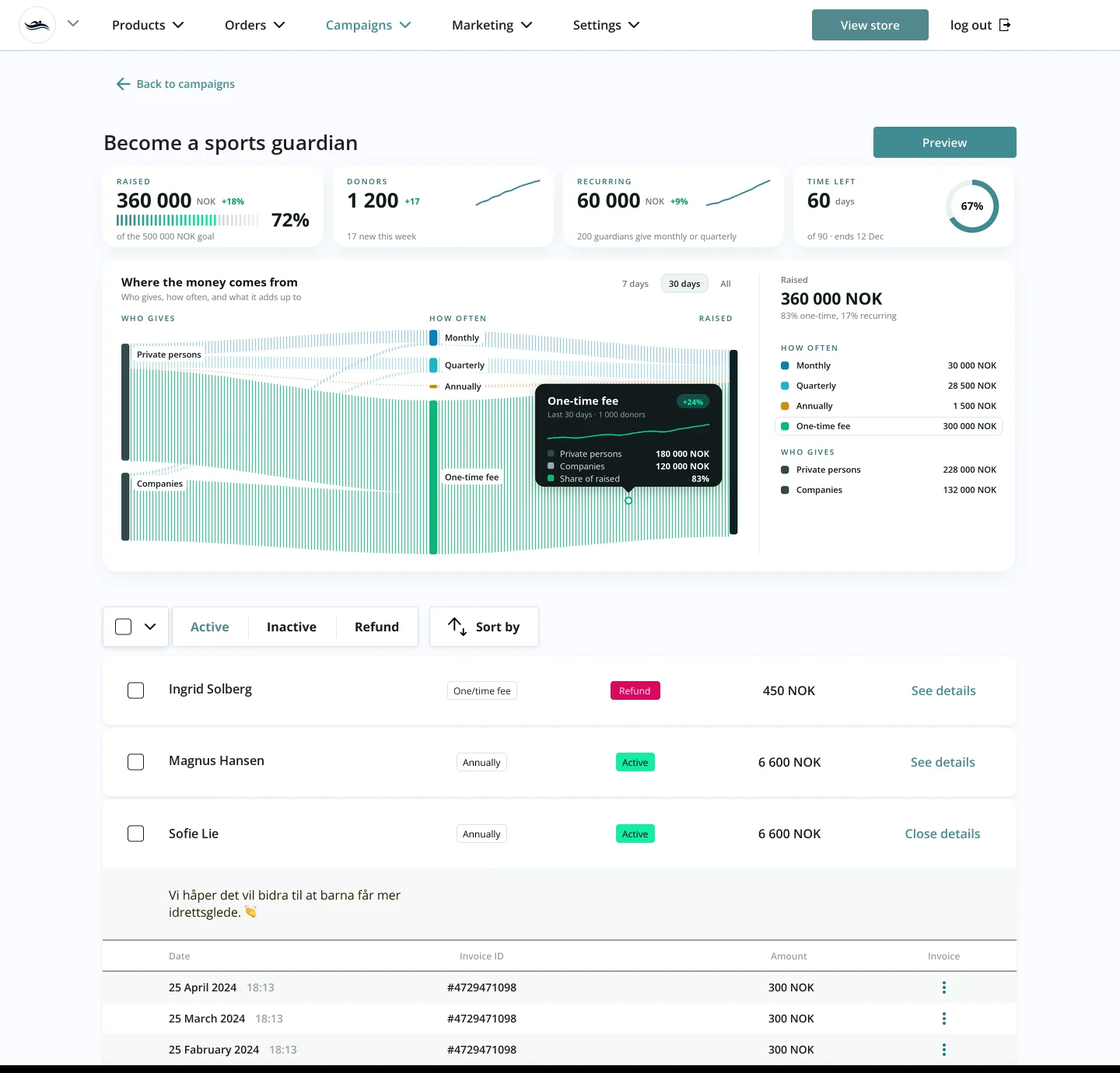
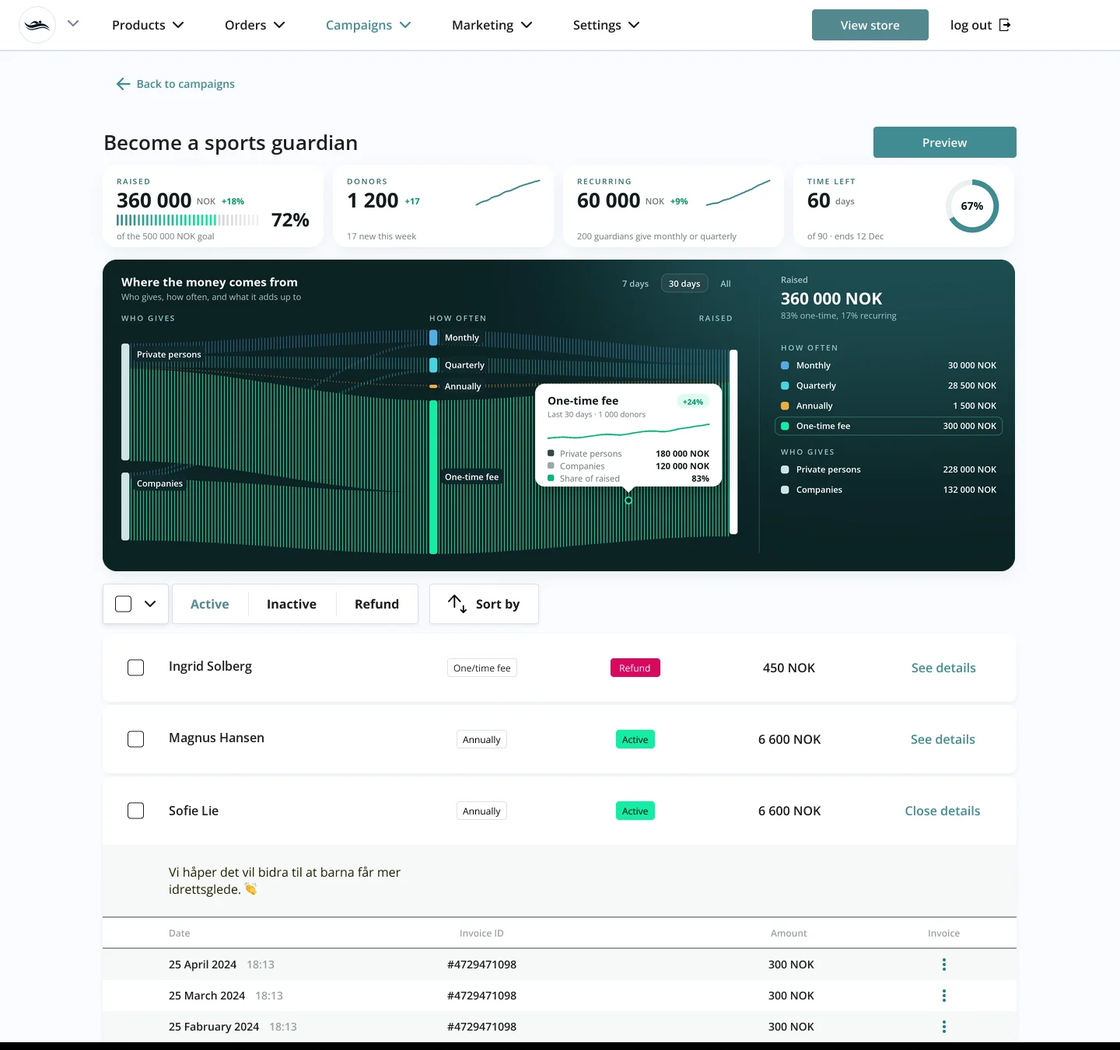
Sport Guardian admin: flow card on the page's deep teal ground, even 16 px gap above the donor filters

diff --git a/SportGuardian.html b/SportGuardian.html
@@ -308,7 +308,7 @@ footer .wrap{display:flex;justify-content:space-between;gap:16px;flex-wrap:wrap}
 
 <figure class="c5-12 rv" style="--d:.1s"><div class="panel"><img class="el c" src="assets/work/sport-guardian/el-create-donations.webp" alt="From the campaign builder: Accept donations from private persons and companies, and Select donation frequency, from monthly to a one-time fee, each with a short hint." width="1200" height="1183" loading="lazy"></div><figcaption>For the club: who can give and how often, with a hint under every choice.</figcaption></figure>
 
-<figure class="c1-12 rv"><div class="panel"><div class="browser" style="max-width:1000px"><div class="bar" aria-hidden="true"><i></i><i></i><i></i><span>admin.supporter.no</span></div><div class="vp fx" style="--hd:4.514%;aspect-ratio:auto"><img class="hd" src="assets/work/sport-guardian/screen-statistik-head.webp" alt="" width="1440" height="65" loading="lazy"><img src="assets/work/sport-guardian/screen-statistik-body.webp" alt="Campaign statistics in the admin panel: cards for raised with a segmented progress bar, donors, recurring and time left; under them the chart Where the money comes from, private persons 228 000 NOK and companies 132 000 NOK flowing through monthly 30 000, quarterly 28 500, annually 1 500 and one-time 300 000 NOK into 360 000 NOK raised, each frequency in its own colour, a tooltip over the one-time flow with its trend and split, and the amounts in a legend; then a list of donors with their status." width="1440" height="1315" loading="lazy"></div></div></div><figcaption style="max-width:64ch">The admin panel: what each frequency brings in, and every donor, with refunds and cancellations in one place.</figcaption></figure>
+<figure class="c1-12 rv"><div class="panel"><div class="browser" style="max-width:1000px"><div class="bar" aria-hidden="true"><i></i><i></i><i></i><span>admin.supporter.no</span></div><div class="vp fx" style="--hd:4.514%;aspect-ratio:auto"><img class="hd" src="assets/work/sport-guardian/screen-statistik-head.webp" alt="" width="1440" height="65" loading="lazy"><img src="assets/work/sport-guardian/screen-statistik-body.webp" alt="Campaign statistics in the admin panel: cards for raised with a segmented progress bar, donors, recurring and time left; under them the chart Where the money comes from, private persons 228 000 NOK and companies 132 000 NOK flowing through monthly 30 000, quarterly 28 500, annually 1 500 and one-time 300 000 NOK into 360 000 NOK raised, each frequency in its own colour, a tooltip over the one-time flow with its trend and split, and the amounts in a legend; then a list of donors with their status." width="1440" height="1286" loading="lazy"></div></div></div><figcaption style="max-width:64ch">The admin panel: what each frequency brings in, and every donor, with refunds and cancellations in one place.</figcaption></figure>
       <!-- flow:start -->
       <figure class="c1-12 rv flowfig"><div class="flowpanel"><div class="flowhead"><h3>Where the money comes from</h3><p>Who gives, how often, and what it adds up to, one campaign after 30 days.</p></div><div class="flowscroll" tabindex="0" aria-label="Where the money comes from, chart"><svg class="flowsvg" viewBox="0 0 1200 560" role="img" aria-labelledby="fl-t fl-d"><title id="fl-t">Where the money comes from</title><desc id="fl-d">Private persons give 228 000 NOK and companies 132 000 NOK. By frequency: monthly 30 000, quarterly 28 500, annually 1 500 and one-time 300 000 NOK, together 360 000 NOK raised. The same numbers are in the table below.</desc><defs><pattern id="hatch" width="6" height="8" patternUnits="userSpaceOnUse"><rect x="0" width="1.3" height="8" fill="#fff" fill-opacity=".55"/></pattern><pattern id="hatch-hi" width="6" height="8" patternUnits="userSpaceOnUse"><rect x="0" width="1.6" height="8" fill="#15EDA3"/></pattern></defs><line x1="218.0" y1="96" x2="218.0" y2="538" stroke="#fff" stroke-opacity=".08"/><line x1="598.0" y1="96" x2="598.0" y2="538" stroke="#fff" stroke-opacity=".08"/><line x1="968.0" y1="96" x2="968.0" y2="538" stroke="#fff" stroke-opacity=".08"/><text class="col" x="210" y="80">Who gives</text><text class="col" x="590" y="80">How often</text><text class="col" x="960" y="80">Raised</text><path class="fl" data-f="Monthly" data-s="Private persons" data-v="24 000 NOK" d="M226.0,129.0 C408.0,129.0 408.0,118.7 590.0,118.7 L590.0,140.1 C408.0,140.1 408.0,150.5 226.0,150.5 Z" fill="url(#hatch)"/><path class="fl" data-f="Monthly" data-s="Companies" data-v="6 000 NOK" d="M226.0,392.9 C408.0,392.9 408.0,140.1 590.0,140.1 L590.0,145.5 C408.0,145.5 408.0,398.3 226.0,398.3 Z" fill="url(#hatch)"/><path class="fl" data-f="Quarterly" data-s="Private persons" data-v="22 500 NOK" d="M226.0,150.5 C408.0,150.5 408.0,171.5 590.0,171.5 L590.0,191.6 C408.0,191.6 408.0,170.6 226.0,170.6 Z" fill="url(#hatch)"/><path class="fl" data-f="Quarterly" data-s="Companies" data-v="6 000 NOK" d="M226.0,398.3 C408.0,398.3 408.0,191.6 590.0,191.6 L590.0,197.0 C408.0,197.0 408.0,403.7 226.0,403.7 Z" fill="url(#hatch)"/><path class="fl" data-f="Annually" data-s="Private persons" data-v="1 500 NOK" d="M226.0,170.6 C408.0,170.6 408.0,223.0 590.0,223.0 L590.0,225.0 C408.0,225.0 408.0,172.6 226.0,172.6 Z" fill="url(#hatch)"/><path class="fl hi" data-f="One-time fee" data-s="Private persons" data-v="180 000 NOK" d="M226.0,172.6 C408.0,172.6 408.0,253.0 590.0,253.0 L590.0,414.0 C408.0,414.0 408.0,333.6 226.0,333.6 Z" fill="url(#hatch-hi)"/><path class="fl hi" data-f="One-time fee" data-s="Companies" data-v="120 000 NOK" d="M226.0,403.7 C408.0,403.7 408.0,414.0 590.0,414.0 L590.0,521.3 C408.0,521.3 408.0,511.0 226.0,511.0 Z" fill="url(#hatch-hi)"/><path class="fl" data-f="Monthly" data-s="Raised" data-v="30 000 NOK" d="M606.0,118.7 C783.0,118.7 783.0,159.0 960.0,159.0 L960.0,185.8 C783.0,185.8 783.0,145.5 606.0,145.5 Z" fill="url(#hatch)"/><path class="fl" data-f="Quarterly" data-s="Raised" data-v="28 500 NOK" d="M606.0,171.5 C783.0,171.5 783.0,185.8 960.0,185.8 L960.0,211.3 C783.0,211.3 783.0,197.0 606.0,197.0 Z" fill="url(#hatch)"/><path class="fl" data-f="Annually" data-s="Raised" data-v="1 500 NOK" d="M606.0,223.0 C783.0,223.0 783.0,211.3 960.0,211.3 L960.0,215.3 C783.0,215.3 783.0,227.0 606.0,227.0 Z" fill="url(#hatch)"/><path class="fl hi" data-f="One-time fee" data-s="Raised" data-v="300 000 NOK" d="M606.0,253.0 C783.0,253.0 783.0,215.3 960.0,215.3 L960.0,483.7 C783.0,483.7 783.0,521.3 606.0,521.3 Z" fill="url(#hatch-hi)"/><g class="nd" data-s="Private persons"><rect x="210" y="129.0" width="16" height="203.9" rx="3" fill="#CFE3E4"/><text class="nm" x="192" y="225.0" text-anchor="end">Private persons</text><text class="vl" x="192" y="247.0" text-anchor="end">228 000 NOK</text></g><g class="nd" data-s="Companies"><rect x="210" y="392.9" width="16" height="118.1" rx="3" fill="#CFE3E4"/><text class="nm" x="192" y="446.0" text-anchor="end">Companies</text><text class="vl" x="192" y="468.0" text-anchor="end">132 000 NOK</text></g><g class="nd" data-f="Monthly"><rect x="590" y="118.7" width="16" height="26.8" rx="3" fill="#CFE3E4"/><text class="nm" x="622" y="137.1">Monthly <tspan class="vl">30 000 NOK</tspan></text></g><g class="nd" data-f="Quarterly"><rect x="590" y="171.5" width="16" height="25.5" rx="3" fill="#CFE3E4"/><text class="nm" x="622" y="189.2">Quarterly <tspan class="vl">28 500 NOK</tspan></text></g><g class="nd" data-f="Annually"><rect x="590" y="223.0" width="16" height="4.0" rx="3" fill="#CFE3E4"/><text class="nm" x="622" y="230.0">Annually <tspan class="vl">1 500 NOK</tspan></text></g><g class="nd" data-f="One-time fee"><rect x="590" y="253.0" width="16" height="268.3" rx="3" fill="#15EDA3"/><text class="nm g" x="622" y="392.2">One-time fee <tspan class="vl">300 000 NOK</tspan></text></g><rect x="960" y="159.0" width="16" height="322.0" rx="3" fill="#fff"/><text class="big" x="998" y="326.0">360 000</text><text class="vl" x="1000" y="356.0">NOK raised · 83% one-time</text></svg><div class="fltip" aria-hidden="true"></div></div><table class="vh"><caption>Where the money comes from, in NOK</caption><thead><tr><th scope="col">Who gives</th><th scope="col">Monthly</th><th scope="col">Quarterly</th><th scope="col">Annually</th><th scope="col">One-time fee</th><th scope="col">Total</th></tr></thead><tbody><tr><th scope="row">Private persons</th><td>24 000 NOK</td><td>22 500 NOK</td><td>1 500 NOK</td><td>180 000 NOK</td><td>228 000 NOK</td></tr><tr><th scope="row">Companies</th><td>6 000 NOK</td><td>6 000 NOK</td><td>0 NOK</td><td>120 000 NOK</td><td>132 000 NOK</td></tr><tr><th scope="row">Total</th><td>30 000 NOK</td><td>28 500 NOK</td><td>1 500 NOK</td><td>300 000 NOK</td><td>360 000 NOK</td></tr></tbody></table></div><figcaption>Every krone traced from the donor to the total: most of it comes as one-time gifts, and companies give over a third.</figcaption></figure>
       <!-- flow:end -->

diff --git a/tools/sport-guardian/sankey.py b/tools/sport-guardian/sankey.py
@@ -80,17 +80,24 @@ def dashboard_sankey(im, H_BLOCK=470, chart=True):
     # the flow card (2026-10-13, her requests: the "Where the money comes from" chart on the dashboard too; then
     # "more refined, each flow its own colour", no wide label column on the left, and a tooltip like her node-network
     # reference: the screen shows the chart as if the pointer rests on One-time fee, with a dark tooltip card)
+    # Then (her request): the card takes the ground of the page's own flow chart, a deep teal with a soft glow at the
+    # top right, and the donor filters start 16 px under it, the same gap as between the cards and this card.
     from PIL import ImageChops
-    s = S; y1 = y0+h0+16; w1 = 1305-x0; h1 = H_BLOCK-(y1-207)-12
-    c = card(x0, y1, w1, h1); d = ImageDraw.Draw(c)
-    d.text((24*s, 18*s), 'Where the money comes from', font=FONT('Bold', 15*s), fill=INKD)
-    d.text((24*s, 40*s), 'Who gives, how often, and what it adds up to', font=FONT('Regular', 11*s), fill=MUT)
+    s = S; y1 = y0+h0+16; w1 = 1305-x0; h1 = H_BLOCK-(y1-207)+17
+    c = card(x0, y1, w1, h1)
+    g = Image.new('RGB', c.size, (11, 34, 36)); gl = Image.new('L', c.size, 0)
+    ImageDraw.Draw(gl).ellipse((int(c.width*.55), -c.height//2, int(c.width*1.15), c.height//2), fill=255)
+    g = Image.composite(Image.new('RGB', c.size, (29, 76, 80)), g, gl.filter(ImageFilter.GaussianBlur(90*s)))
+    c = Image.composite(g.convert('RGBA'), c, c.split()[3]); d = ImageDraw.Draw(c)
+    WK, WM, WL = (255, 255, 255), (167, 196, 198), (150, 196, 198)  # light text on the dark ground
+    d.text((24*s, 18*s), 'Where the money comes from', font=FONT('Bold', 15*s), fill=WK)
+    d.text((24*s, 40*s), 'Who gives, how often, and what it adds up to', font=FONT('Regular', 11*s), fill=WM)
     # period switch, top right of the chart area
     pf = FONT('SemiBold', 11*s); px = 668*s
     for k, t in enumerate(['7 days', '30 days', 'All']):
         tw = d.textlength(t, font=pf); on = k == 1
-        if on: d.rounded_rectangle((px-10*s, 18*s, px+tw+10*s, 42*s), 8*s, fill=(238, 244, 245), outline=(214, 226, 228), width=s)
-        d.text((px, 23*s), t, font=pf, fill=INKD if on else MUT); px += tw+26*s
+        if on: d.rounded_rectangle((px-10*s, 18*s, px+tw+10*s, 42*s), 8*s, fill=(36, 70, 74), outline=(62, 100, 104), width=s)
+        d.text((px, 23*s), t, font=pf, fill=WK if on else WM); px += tw+26*s
     ct, cb, gapn = 92*s, (h1-24)*s, 16*s
     total = sum(FLOWS.values()); kk = ((cb-ct)-gapn*3)/total
     hgt = lambda v: max(v*kk, 4*s)
@@ -102,7 +109,8 @@ def dashboard_sankey(im, H_BLOCK=470, chart=True):
         return pos
     srcs = ['Private persons', 'Companies']; sv = [sum(v for (a, b), v in FLOWS.items() if a == n) for n in srcs]
     fr = [n for n, _ in FREQ]; fv = [sum(v for (a, b), v in FLOWS.items() if b == n) for n in fr]
-    col = dict(FREQ); FOCUS = 'One-time fee'
+    # the same four hues, lighter for the dark ground; One-time fee in the brand green
+    col = {'Monthly': (84, 172, 226), 'Quarterly': (72, 210, 222), 'Annually': (240, 172, 64), 'One-time fee': GREEN}; FOCUS = 'One-time fee'
     xL, xM, xR, nw = 24*s, 420*s, 806*s, 10*s
     P = stack(srcs, sv); M = stack(fr, fv)
     ry = ct+((cb-ct)-total*kk)/2; R = [ry, ry+total*kk, ry]
@@ -121,17 +129,17 @@ def dashboard_sankey(im, H_BLOCK=470, chart=True):
     stripes = Image.new('L', c.size, 0); sd = ImageDraw.Draw(stripes)
     for x in range(0, c.width, 4*s): sd.rectangle((x, 0, x+s-1, c.height), fill=255)
     for f in fr:
-        a = ImageChops.multiply(masks[f], stripes).point(lambda v, k=(235 if f == FOCUS else 120): v*k//255)
+        a = ImageChops.multiply(masks[f], stripes).point(lambda v, k=(235 if f == FOCUS else 120): v*k//255)  # (full for the hovered flow)
         lay = Image.new('RGBA', c.size, col[f]+(0,)); lay.putalpha(a); c = Image.alpha_composite(c, lay)
     d = ImageDraw.Draw(c)
     hf = FONT('SemiBold', 10*s)
     for x, t in ((xL, 'WHO GIVES'), (xM, 'HOW OFTEN')):
-        _tracked(d, (x, 68*s), t, hf, LAB, 1.6*s)
-    rt = 'RAISED'; _tracked(d, (xR+nw-(len(rt)*8.2)*s, 68*s), rt, hf, LAB, 1.6*s)
-    lf = FONT('SemiBold', 11*s); NODE = (52, 72, 76)
+        _tracked(d, (x, 68*s), t, hf, WL, 1.6*s)
+    rt = 'RAISED'; _tracked(d, (xR+nw-(len(rt)*8.2)*s, 68*s), rt, hf, WL, 1.6*s)
+    lf = FONT('SemiBold', 11*s); NODE = (207, 227, 228); PL = (15, 40, 43)
 
-    def plate(x, y, t, fill=INKD):  # a small white plate so a label reads over the lines
-        tw = d.textlength(t, font=lf); d.rounded_rectangle((x-5*s, y-3*s, x+tw+5*s, y+17*s), 5*s, fill=(255, 255, 255))
+    def plate(x, y, t, fill=WK):  # a small dark plate so a label reads over the lines
+        tw = d.textlength(t, font=lf); d.rounded_rectangle((x-5*s, y-3*s, x+tw+5*s, y+17*s), 5*s, fill=PL)
         d.text((x, y), t, font=lf, fill=fill)
     for n in srcs:
         a, b = P[n][0], P[n][1]; d.rounded_rectangle((xL, a, xL+nw, b), 3*s, fill=NODE)
@@ -140,49 +148,49 @@ def dashboard_sankey(im, H_BLOCK=470, chart=True):
         a, b = M[n][0], max(M[n][1], M[n][0]+4*s); ym = (a+b)/2
         d.rounded_rectangle((xM, a, xM+nw, b), 3*s, fill=col[n])
         plate(xM+nw+10*s, ym-8*s, n)
-    d.rounded_rectangle((xR, R[0], xR+nw, R[1]), 3*s, fill=(14, 34, 37))
+    d.rounded_rectangle((xR, R[0], xR+nw, R[1]), 3*s, fill=(255, 255, 255))
 
     # the tooltip, as if the pointer rests on the One-time fee flow
     a, b = M[FOCUS][0], M[FOCUS][1]; ptx, pty = 676*s, (a+b)/2+30*s
-    d.ellipse((ptx-5*s, pty-5*s, ptx+5*s, pty+5*s), fill=(255, 255, 255), outline=col[FOCUS], width=2*s)
+    d.ellipse((ptx-5*s, pty-5*s, ptx+5*s, pty+5*s), fill=(11, 34, 36), outline=col[FOCUS], width=2*s)
     tx, ty, tw_, th = 556*s, pty-150*s, 240*s, 132*s
     sh = Image.new('L', c.size, 0); ImageDraw.Draw(sh).rounded_rectangle((tx, ty+6*s, tx+tw_, ty+th+6*s), 12*s, fill=70)
-    shl = Image.new('RGBA', c.size, (10, 25, 28, 0)); shl.putalpha(sh.filter(ImageFilter.GaussianBlur(10*s))); c = Image.alpha_composite(c, shl)
-    d = ImageDraw.Draw(c); TT = (17, 27, 29); TM = (150, 168, 171)
+    shl = Image.new('RGBA', c.size, (0, 10, 12, 0)); shl.putalpha(sh.filter(ImageFilter.GaussianBlur(10*s))); c = Image.alpha_composite(c, shl)
+    d = ImageDraw.Draw(c); TT = (255, 255, 255); TM = (106, 119, 124); TI = (20, 30, 32)
     d.rounded_rectangle((tx, ty, tx+tw_, ty+th), 12*s, fill=TT)
     d.polygon([(ptx-8*s, ty+th), (ptx+8*s, ty+th), (ptx, ty+th+8*s)], fill=TT)
-    d.text((tx+16*s, ty+12*s), 'One-time fee', font=FONT('Bold', 14*s), fill=(255, 255, 255))
+    d.text((tx+16*s, ty+12*s), 'One-time fee', font=FONT('Bold', 14*s), fill=TI)
     d.text((tx+16*s, ty+32*s), 'Last 30 days · 1 000 donors', font=FONT('Regular', 10*s), fill=TM)
     ch = '+24%'; cf = FONT('Bold', 10*s); cw = d.textlength(ch, font=cf)
-    d.rounded_rectangle((tx+tw_-16*s-cw-16*s, ty+13*s, tx+tw_-16*s, ty+31*s), 9*s, fill=(17, 77, 70))
-    d.text((tx+tw_-16*s-cw-8*s, ty+16*s), ch, font=cf, fill=GREEN)
-    _spark(d, (tx+16*s, ty+52*s, tx+tw_-16*s, ty+70*s), [5, 7, 6, 9, 12, 11, 15, 18, 17, 22, 26, 30], col[FOCUS], None, 2*s)
+    d.rounded_rectangle((tx+tw_-16*s-cw-16*s, ty+13*s, tx+tw_-16*s, ty+31*s), 9*s, fill=(221, 251, 240))
+    d.text((tx+tw_-16*s-cw-8*s, ty+16*s), ch, font=cf, fill=(8, 150, 100))
+    _spark(d, (tx+16*s, ty+52*s, tx+tw_-16*s, ty+70*s), [5, 7, 6, 9, 12, 11, 15, 18, 17, 22, 26, 30], (13, 181, 122), None, 2*s)
     rf, vf2 = FONT('Regular', 11*s), FONT('Bold', 11*s)
-    for k, (dot, t, v) in enumerate([(NODE, 'Private persons', '180 000 NOK'), ((150, 170, 174), 'Companies', '120 000 NOK'), (col[FOCUS], 'Share of raised', '83%')]):
+    for k, (dot, t, v) in enumerate([((52, 72, 76), 'Private persons', '180 000 NOK'), ((150, 170, 174), 'Companies', '120 000 NOK'), ((13, 181, 122), 'Share of raised', '83%')]):
         yy = ty+82*s+k*16*s
         d.rounded_rectangle((tx+16*s, yy+3*s, tx+24*s, yy+11*s), 2*s, fill=dot)
-        d.text((tx+32*s, yy), t, font=rf, fill=(220, 230, 231))
-        d.text((tx+tw_-16*s-d.textlength(v, font=vf2), yy), v, font=vf2, fill=(255, 255, 255))
+        d.text((tx+32*s, yy), t, font=rf, fill=TM)
+        d.text((tx+tw_-16*s-d.textlength(v, font=vf2), yy), v, font=vf2, fill=TI)
 
     # the legend on the right: every amount next to a marker in its flow's colour
     lx, rx = 872*s, (w1-24)*s
-    d.line((lx-28*s, 18*s, lx-28*s, cb), fill=(232, 238, 240), width=s)
+    d.line((lx-28*s, 18*s, lx-28*s, cb), fill=(40, 74, 78), width=s)
     y = 18*s
-    d.text((lx, y), 'Raised', font=lf, fill=MUT)
-    d.text((lx, y+17*s), '360 000 NOK', font=FONT('Bold', 21*s), fill=INKD)
-    d.text((lx, y+46*s), '83% one-time, 17% recurring', font=FONT('Regular', 11*s), fill=MUT)
+    d.text((lx, y), 'Raised', font=lf, fill=WM)
+    d.text((lx, y+17*s), '360 000 NOK', font=FONT('Bold', 21*s), fill=WK)
+    d.text((lx, y+46*s), '83% one-time, 17% recurring', font=FONT('Regular', 11*s), fill=WM)
     vf = FONT('SemiBold', 11*s)
     y += 80*s
     rows = [('HOW OFTEN', None, None)] + [(n, v, col[n]) for n, v in zip(fr, fv)] \
          + [('WHO GIVES', None, None)] + [(n, v, NODE) for n, v in zip(srcs, sv)]
     for n, v, mc in rows:
         if v is None:
-            y += 8*s; _tracked(d, (lx, y), n, hf, LAB, 1.6*s); y += 22*s; continue
+            y += 8*s; _tracked(d, (lx, y), n, hf, WL, 1.6*s); y += 22*s; continue
         yc = y+8*s
         d.rounded_rectangle((lx, yc-5*s, lx+10*s, yc+5*s), 3*s, fill=mc)
-        if n == FOCUS: d.rounded_rectangle((lx-8*s, yc-12*s, rx+8*s, yc+12*s), 7*s, outline=(214, 236, 226), width=s)
-        d.text((lx+20*s, yc-8*s), n, font=lf, fill=INKD)
-        t = f'{v:,}'.replace(',', ' ')+' NOK'; d.text((rx-d.textlength(t, font=vf), yc-8*s), t, font=vf, fill=INKD)
+        if n == FOCUS: d.rounded_rectangle((lx-8*s, yc-12*s, rx+8*s, yc+12*s), 7*s, outline=(46, 110, 92), width=s)
+        d.text((lx+20*s, yc-8*s), n, font=lf, fill=WK)
+        t = f'{v:,}'.replace(',', ' ')+' NOK'; d.text((rx-d.textlength(t, font=vf), yc-8*s), t, font=vf, fill=WK)
         y += 26*s
     put(c, x0, y1)
     return out

diff --git a/tools/sport-guardian/fix_screens.py b/tools/sport-guardian/fix_screens.py
@@ -37,7 +37,7 @@ for y, name in [(611, 'Ingrid Solberg'), (703, 'Magnus Hansen'), (795, 'Sofie Li
     d.rectangle((212, y-16, 525, y+16), fill=(255, 255, 255))
     b = d.textbbox((0, 0), name, font=SEMI); d.text((217-b[0], y-(b[3]-b[1])/2-b[1]), name, font=SEMI, fill=(30, 30, 30))
 retext(st, [((128, 165, 560, 207), 'Become a sports guardian', (133, 186))], 26)
-st = club_logo(dashboard_sankey(st, H_BLOCK=540))  # after the names: the new block pushes the donor list down
+st = club_logo(dashboard_sankey(st, H_BLOCK=511))  # after the names: the new block pushes the donor list down
 save(st, 'screen-statistik')
 save(st.crop((0, 0, 1440, 65)), 'screen-statistik-head'); save(st.crop((0, 65, 1440, st.height)), 'screen-statistik-body')
 

diff --git a/sportguardian.md b/sportguardian.md
@@ -40,7 +40,7 @@ Order (2026-10-13, her request, last change): header → the moving mosaic → A
    (the desktop page: a browser frame, scrolling slowly under its fixed header, on a pale panel)
    - (swapped, her request) on a pale panel (1–5) two phone-size screens, paying by card and paying with Vipps (`m-step-4.webp`, `m-vipps-2.webp`), larger, the card one higher on the left and the Vipps one lower on the right (her request), as tall as the phone panel; the phone on a teal panel (6–9) playing the flow; the caption on the right (10–12): **Card or Vipps.** Donors pay by card, or with Vipps, the mobile payment app used only in the Nordic countries: in Norway most people pay with it in one tap, and donors from anywhere else pay by card. The phone has no caption and no visible Pause button (her request); for WCAG 2.2.2 it stops while the pointer is over it, and a click, a tap or Enter / Space on it stops or starts it (screen readers hear how). The desktop page has no caption or Pause button either (her request); it stops the same way: hover, click, tap, Enter or Space. The card and Vipps screens are 41% of their panel wide with 7% at the sides, between the earlier small and large sizes, to sit with the phone next to them. Her card frame says "Pay 630 NOK"; it reads 603 NOK like the rest of the flow (`mobile_frames.py` also rewrites `card-credit-card.webp`, so run it after `export_assets.py`).
    - the donor list on a teal panel (1–4); the campaign builder's "Accept donations from / Select donation frequency" block on a pale panel (5–12): single elements, as she asked, since the full builder page is not its best side;
-   - the campaign statistics in the admin panel in a browser frame, scrolling under the fixed admin nav (1–12), shown whole, with no scroll (her request: the whole dashboard is visible). The five frequency cards are redrawn as modern dashboard cards ("like crypto dashboards, with charts"): label and donor count, the amount, a growth chip, a small area chart with a gradient; One-time fee is the highlighted dark card with a green chart; chart data is made up ([`tools/sport-guardian/stat_cards.py`](tools/sport-guardian/stat_cards.py)). The caption runs in two lines (64ch). Redrawn 2026-10-13 after her sales dashboard reference (inspiration 22): light rounded cards with soft shadows, small uppercase letter-spaced labels, big numbers with the change in green beside them, one line of context, a small sparkline, and a bar for each frequency's share of all money raised; One-time fee is the dark card with a bright green bar. Top row: RAISED 360 000 NOK, +18% this week, the bar to the 500 000 NOK goal and "200 donors · 17 new this week"; TIME LEFT 60 days with a ring, over the One-time fee card. Then (2026-10-13, her request: one row of cards and a modern chart under it) rebuilt again by `dashboard_sankey()` in [`tools/sport-guardian/sankey.py`](tools/sport-guardian/sankey.py): one row of four cards, RAISED 360 000 NOK +18% with the goal bar, DONORS 1 200 +17 with a sparkline, RECURRING 60 000 NOK +9% with a sparkline, TIME LEFT 60 days with a ring; under it a Sankey, "Where the money comes from": private persons (228 000 NOK) and companies (132 000 NOK) flow through Monthly, Quarterly, Annually and One-time fee into 360 000 NOK raised. The split between private persons and companies is made up; the totals match the cards. The four frequency colours (#0A7FB0, #22B3C4, #D08A1C, #0DB57A) passed the dataviz palette validator on the light surface (lightness, chroma, colour-blind and normal-vision separation); contrast is a warning, so every node has a text label. Later the same day (her request, references 23 and 24): the admin screen keeps only the row of four cards (`dashboard_sankey(..., chart=False)`, the screen 104 px taller than her frame); RAISED shows a segmented progress of 34 thin vertical bars, teal to green for the share raised, fading grey for the rest, with a large 72% beside it. Later again (2026-10-13, her request: "add this chart to the dashboard too", amounts as tooltips or a legend with markers): the chart is back under the row of cards (`dashboard_sankey(st, H_BLOCK=540)`, the body screen now 1440 × 1315), drawn like the page's own flow chart: fields of thin vertical lines, One-time fee in green, the other flows grey, column heads WHO GIVES, HOW OFTEN, RAISED; the nodes carry names only, each frequency name on a white plate so it reads over the lines. The amounts sit in a legend on the right with a marker for each flow (a legend rather than tooltips, because the screen is an image and a legend also works on touch and for keyboard users): Raised 360 000 NOK, 83% one-time, 17% recurring; How often: Monthly 30 000, Quarterly 28 500, Annually 1 500, One-time fee 300 000 NOK; Who gives: Private persons 228 000, Companies 132 000 NOK. Refined the same day (her request: "more refined, mark it in different colours", with her node-network reference: a dark tooltip card, room kept at the sides): finer lines (1 px every 4 px), each frequency in its own colour from the validated palette (Monthly #0A7FB0, Quarterly #22B3C4, Annually #D08A1C, One-time fee #0DB57A); the wide label column on the left is gone, the source nodes sit at the left edge with their names on small white plates beside them; a period switch (7 days, 30 days, All) top right. The screen shows the chart as if the pointer rests on One-time fee: that flow at full strength, the others quieter, and a dark tooltip card with "One-time fee", "Last 30 days · 1 000 donors", a +24% chip, a green sparkline, and Private persons 180 000 NOK, Companies 120 000 NOK, Share of raised 83%; its row in the legend is outlined. The legend markers carry the same colours. The TIME LEFT ring is larger (her request): radius 34 px instead of 22, a 7 px stroke, 67% in 14 px bold, centred in the card height.
+   - the campaign statistics in the admin panel in a browser frame, scrolling under the fixed admin nav (1–12), shown whole, with no scroll (her request: the whole dashboard is visible). The five frequency cards are redrawn as modern dashboard cards ("like crypto dashboards, with charts"): label and donor count, the amount, a growth chip, a small area chart with a gradient; One-time fee is the highlighted dark card with a green chart; chart data is made up ([`tools/sport-guardian/stat_cards.py`](tools/sport-guardian/stat_cards.py)). The caption runs in two lines (64ch). Redrawn 2026-10-13 after her sales dashboard reference (inspiration 22): light rounded cards with soft shadows, small uppercase letter-spaced labels, big numbers with the change in green beside them, one line of context, a small sparkline, and a bar for each frequency's share of all money raised; One-time fee is the dark card with a bright green bar. Top row: RAISED 360 000 NOK, +18% this week, the bar to the 500 000 NOK goal and "200 donors · 17 new this week"; TIME LEFT 60 days with a ring, over the One-time fee card. Then (2026-10-13, her request: one row of cards and a modern chart under it) rebuilt again by `dashboard_sankey()` in [`tools/sport-guardian/sankey.py`](tools/sport-guardian/sankey.py): one row of four cards, RAISED 360 000 NOK +18% with the goal bar, DONORS 1 200 +17 with a sparkline, RECURRING 60 000 NOK +9% with a sparkline, TIME LEFT 60 days with a ring; under it a Sankey, "Where the money comes from": private persons (228 000 NOK) and companies (132 000 NOK) flow through Monthly, Quarterly, Annually and One-time fee into 360 000 NOK raised. The split between private persons and companies is made up; the totals match the cards. The four frequency colours (#0A7FB0, #22B3C4, #D08A1C, #0DB57A) passed the dataviz palette validator on the light surface (lightness, chroma, colour-blind and normal-vision separation); contrast is a warning, so every node has a text label. Later the same day (her request, references 23 and 24): the admin screen keeps only the row of four cards (`dashboard_sankey(..., chart=False)`, the screen 104 px taller than her frame); RAISED shows a segmented progress of 34 thin vertical bars, teal to green for the share raised, fading grey for the rest, with a large 72% beside it. Later again (2026-10-13, her request: "add this chart to the dashboard too", amounts as tooltips or a legend with markers): the chart is back under the row of cards (`dashboard_sankey(st, H_BLOCK=540)`, the body screen now 1440 × 1315), drawn like the page's own flow chart: fields of thin vertical lines, One-time fee in green, the other flows grey, column heads WHO GIVES, HOW OFTEN, RAISED; the nodes carry names only, each frequency name on a white plate so it reads over the lines. The amounts sit in a legend on the right with a marker for each flow (a legend rather than tooltips, because the screen is an image and a legend also works on touch and for keyboard users): Raised 360 000 NOK, 83% one-time, 17% recurring; How often: Monthly 30 000, Quarterly 28 500, Annually 1 500, One-time fee 300 000 NOK; Who gives: Private persons 228 000, Companies 132 000 NOK. Refined the same day (her request: "more refined, mark it in different colours", with her node-network reference: a dark tooltip card, room kept at the sides): finer lines (1 px every 4 px), each frequency in its own colour from the validated palette (Monthly #0A7FB0, Quarterly #22B3C4, Annually #D08A1C, One-time fee #0DB57A); the wide label column on the left is gone, the source nodes sit at the left edge with their names on small white plates beside them; a period switch (7 days, 30 days, All) top right. The screen shows the chart as if the pointer rests on One-time fee: that flow at full strength, the others quieter, and a dark tooltip card with "One-time fee", "Last 30 days · 1 000 donors", a +24% chip, a green sparkline, and Private persons 180 000 NOK, Companies 120 000 NOK, Share of raised 83%; its row in the legend is outlined. The legend markers carry the same colours. The TIME LEFT ring is larger (her request): radius 34 px instead of 22, a 7 px stroke, 67% in 14 px bold, centred in the card height. Then (her request): the flow card takes the ground of the page's own flow chart, deep teal with a soft glow at the top right, light text; the four hues lighter for the dark ground (Monthly #54ACE2, Quarterly #48D2DE, Annually #F0AC40, One-time fee the brand green #15EDA3), nodes light, the Raised bar white, label plates dark; the tooltip turns white with dark text, as on the page's chart. The donor filters now start 16 px under the card, the same gap as between the cards and the card (`H_BLOCK=511`, the body screen 1440 × 1286).
    - **Where the money comes from** — its own block across the grid, right after the admin panel: a deep teal panel with a soft glow; the flows from WHO GIVES (Private persons 228 000 NOK, Companies 132 000 NOK) through HOW OFTEN (Monthly, Quarterly, Annually, One-time fee) to RAISED (360 000 NOK, 83% one-time) are drawn as fields of thin vertical lines, after her reference; the One-time fee path is the brand green, the rest white. Built as SVG by [`tools/sport-guardian/flow_svg.py`](tools/sport-guardian/flow_svg.py), written into the page between `<!-- flow:start -->` and `<!-- flow:end -->`. Hovering a flow or a node lights up its path and shows the amount; every node has a text label and value (never colour alone), and a hidden table with the same numbers serves screen readers; on narrow screens the chart scrolls sideways. Caption: "Every krone traced from the donor to the total: most of it comes as one-time gifts, and companies give over a third." The split between private persons and companies is made up for the mockup. The admin header (her request): the club's swimmer mark from the campaign page in a round badge instead of the "Logo" placeholder; the amount raised and the time left share one card across the whole cards row, on a deep-teal-to-teal gradient with a soft green glow on the right so it stands out (her request): on the left "Raised 360 000 NOK" with a "+18% this week" chip and a teal-to-green bar, "72% of 500 000 NOK goal"; on the right a small stopwatch whose teal ring shows the time left, "Time left 60 days, ends 12 Dec". The 90 days, the goal, the end date and the weekly growth are made up for the mockup.
    - **What this chart is / Other charts, and when to use them** (2026-10-13, her request), right under Where the money comes from: on the left (4 of 12 columns) "What this chart is": *A Sankey diagram.* Each band is as wide as the amount it carries, so you can follow the money from who gives, through how often they give, to the total. *When to use it:* when a whole splits and merges across stages and the question is where the volume goes, as with a budget, the money in a campaign, or the paths people take through a product. With more than about a dozen nodes, or when exact values must be compared, a table or a bar chart reads better. On the right (8 columns) "Other charts, and when to use them", a 3 × 3 grid (2 columns under 900 px, 1 under 520 px), each with a small teal glyph: Bar chart (compares amounts across categories, such as money raised per club or per campaign); Line chart (a trend over time, such as money raised day by day); Area chart (a line chart with the volume filled in: for a total that builds up over time); Stacked bar chart (parts of a whole, compared across groups, such as one-time and recurring gifts per campaign); Sparkline (a tiny trend without axes, next to a number on a card, as on the dashboard above); Donut or progress ring (one share of a whole, or progress to a goal; reads best with one to three parts); Funnel chart (how many people drop off between the steps of a flow, from the campaign page to the payment); Heatmap (patterns across two dimensions, such as donations by weekday and hour); Scatter plot (how two measures relate, such as the size of a gift and how often the donor gives). Written into the page after `<!-- flow:end -->`, so `flow_svg.py` leaves it alone.
    Fixed headers: each long screen is cut into a header strip and a body (`*-head.webp`, `*-body.webp`) by [`tools/sport-guardian/fix_screens.py`](tools/sport-guardian/fix_screens.py). The same script replaces placeholder texts in the admin screens with made-up names: the statistics title "Become a sports guardian" and donors Ingrid Solberg, Magnus Hansen, Sofie Lie; the campaigns "Swimming for everyone", "Junior squad 2024"; the clubs Fjordby Svømmeklubb, Nordlys Fotball, Elvebakken Tennis. Not real people or clubs.
